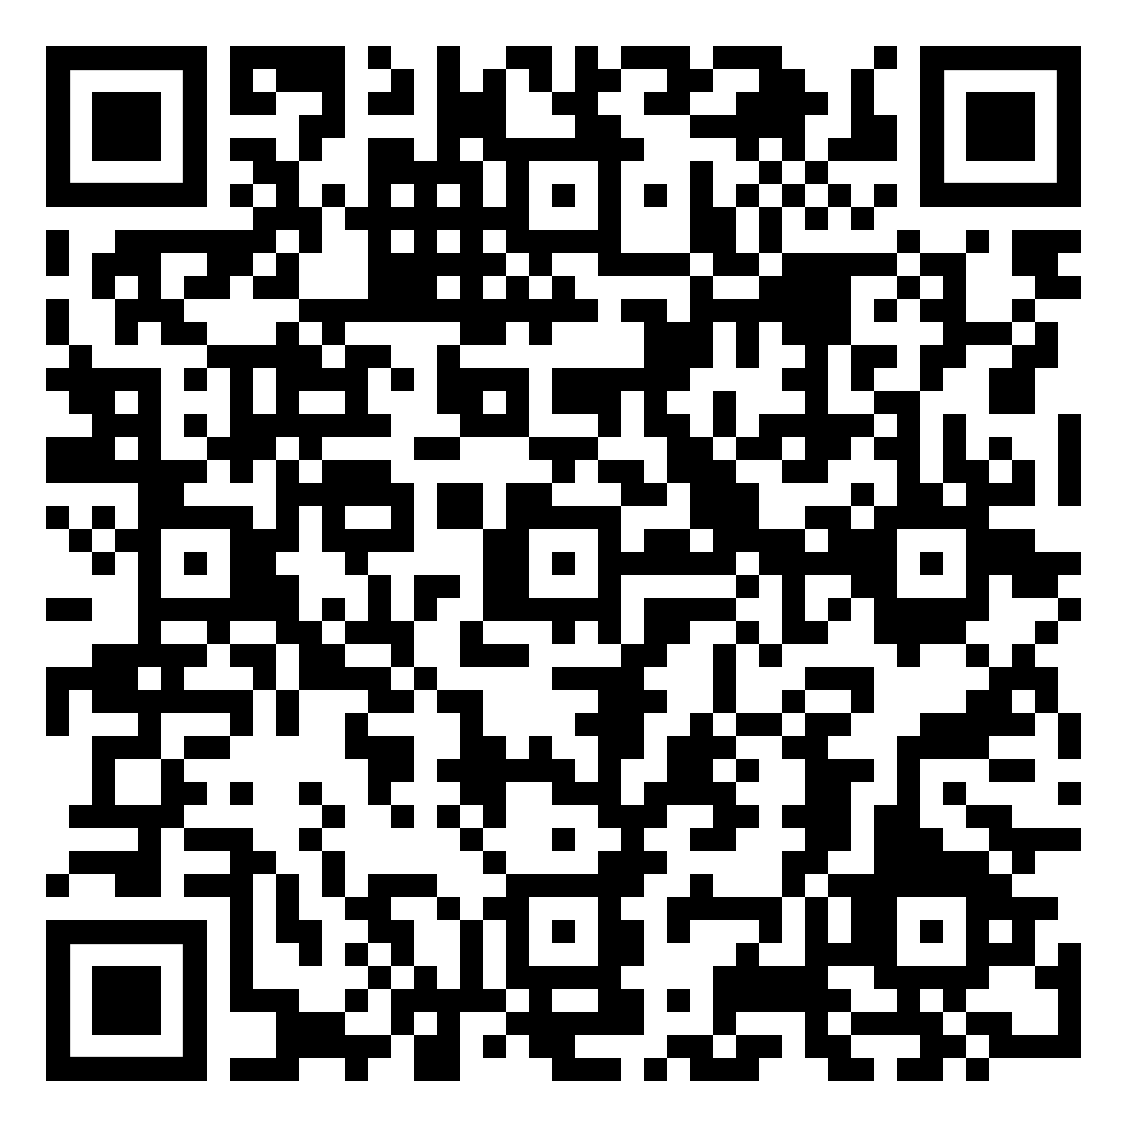
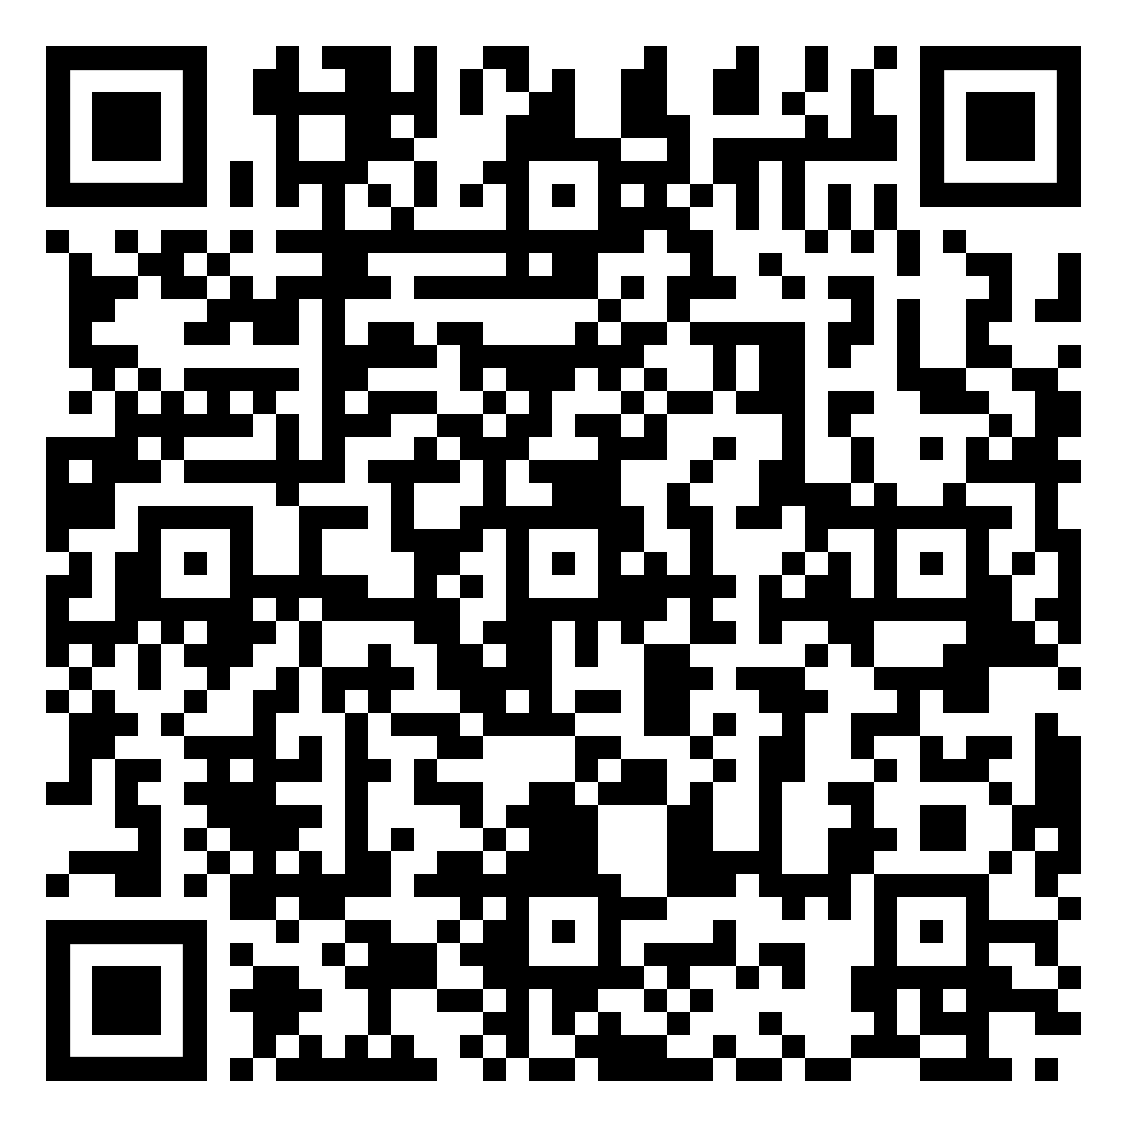
update quokka mobile page with new download information

diff --git a/resources/views/quokka-mobile.blade.php b/resources/views/quokka-mobile.blade.php
@@ -64,12 +64,12 @@
             <div class="col-md-6 d-flex h-100 flex-column justify-content-end">
                 <p class="lead text-muted m-0">Die offizielle Release Version von Quokka Mobile mit stabilen Funktionen.</p>
                 <img src="{{asset('mobile/images/qr-code-release.png')}}">
-                <a class="mt-4 text-center" href="https://github.com/managementtechniksysteme/quokka-mobile/releases/download/v0.1.0/quokka-mobile-0.1.0.apk"><btn class="btn btn-lg btn-primary" type="btn-link">Quokka Mobile herunterladen</btn></a>
+                <a class="mt-4 text-center" href="https://github.com/managementtechniksysteme/quokka-mobile/releases/download/v0.1.1/quokka-mobile-0.1.1.apk"><btn class="btn btn-lg btn-primary" type="btn-link">Quokka Mobile herunterladen</btn></a>
             </div>
             <div class="col-md-6 d-flex h-100 flex-column justify-content-end mt-4 md-mt-0">
                 <p class="lead text-muted m-0">Die Beta Version von Quokka Mobile mit neuen Funktionen. Diese Version kann ungewollte Bugs enthalten.</p>
                 <img src="{{asset('mobile/images/qr-code-beta.png')}}">
-                <a class="mt-4 text-center" href="https://github.com/managementtechniksysteme/quokka-mobile/releases/download/v0.1.0/quokka-mobile-0.1.0-beta.apk"><btn class="btn btn-lg btn-primary" type="btn-link">Quokka Mobile Beta herunterladen</btn></a>
+                <a class="mt-4 text-center" href="https://github.com/managementtechniksysteme/quokka-mobile/releases/download/v0.1.1/quokka-mobile-0.1.1-beta.apk"><btn class="btn btn-lg btn-primary" type="btn-link">Quokka Mobile Beta herunterladen</btn></a>
             </div>
         </div>
 
